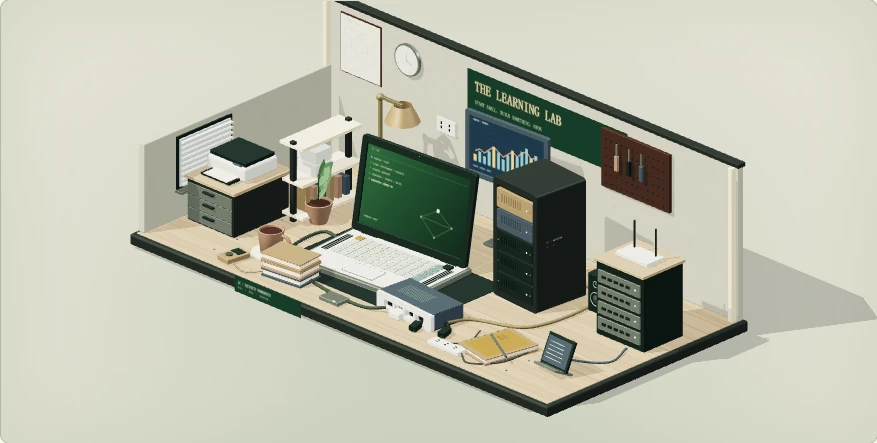
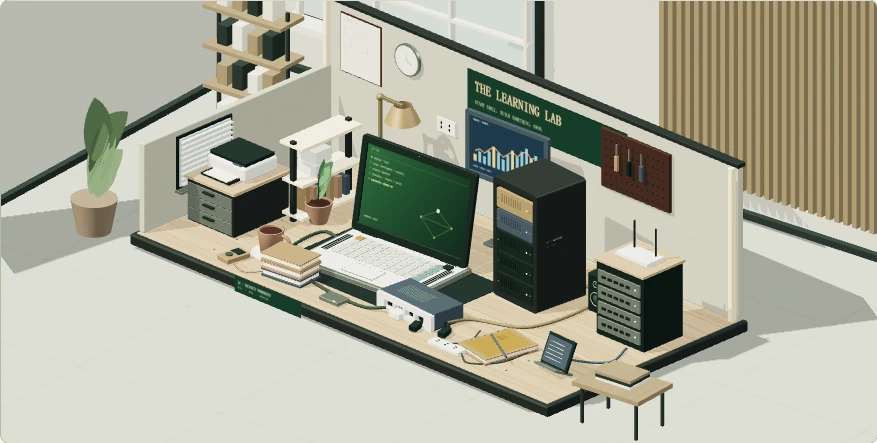
Fill the 3D background with a studio interior and replace portal art with photorealistic assets

diff --git a/index.html b/index.html
@@ -13,8 +13,8 @@
   <script src="roadmap-data.js" defer></script>
   <script src="learning-xp.js" defer></script>
   <link rel="stylesheet" href="motion.css?v=pointer2">
-  <link rel="stylesheet" href="home-3d.css?v=fullroom8">
-  <script src="home-3d.js?v=fullroom8" defer></script>
+  <link rel="stylesheet" href="home-3d.css?v=interior9">
+  <script src="home-3d.js?v=interior9" defer></script>
 </head>
 <body class="motion-site page-home">
   <a class="skip" href="#main">跳到正文</a>
@@ -31,16 +31,16 @@
         <div class="intro-colophon"><span>保持好奇 · 认真求证</span><span>CODE / SECURITY / AI ↗</span></div>
       </div>
       <div class="lab-exhibit" id="lab-exhibit">
-        <div class="workshop-caption" aria-hidden="true"><span>01 / 设备与代码</span><span>02 / 实验与记录</span><span>03 / 验证与积累</span></div><div class="exhibit-top"><span>THE WORKSHOP / 学习工作室</span><span><i></i> 实验中</span></div>
+        
         <div class="lab-viewport" id="lab-viewport" tabindex="0" role="img" aria-label="可旋转的三维安全实验台，包含双屏电脑、服务器、网络设备、台灯和桌面物件。用鼠标拖动或方向键旋转，按 R 复位。下方有等效栏目链接。">
-          <img class="lab-poster" src="assets/lab-poster.webp?v=fullroom8" width="1000" height="820" alt="包含双屏电脑、服务器、网络设备、台灯、绿植、笔记本和咖啡杯的彩色安全实验台">
+          <img class="lab-poster" src="assets/lab-poster.webp?v=interior9" width="1000" height="820" alt="包含双屏电脑、服务器、网络设备、台灯、绿植、笔记本和咖啡杯的彩色安全实验台">
           <canvas id="lab-canvas" aria-hidden="true"></canvas>
           <span id="lab-tooltip" class="lab-tooltip" hidden></span>
         </div>
-        <div class="exhibit-bottom"><span id="lab-scene-status" role="status">正在布置实验台…</span><button type="button" id="lab-reset" aria-label="复位三维视角" hidden><svg viewBox="0 0 20 20" fill="none" stroke="currentColor" stroke-width="1.4" aria-hidden="true"><path d="M4 7a6 6 0 1 1 0 6M4 3v4h4"/></svg>复位视角</button></div>
+        <div class="exhibit-bottom"><span id="lab-scene-status" role="status">正在布置实验台…</span><button type="button" id="lab-reset" aria-label="复位三维视角" hidden><svg viewBox="0 0 20 20" fill="none" stroke="currentColor" stroke-width="1.4" aria-hidden="true"><path d="M4 7a6 6 0 1 1 0 6M4 3v4h4"/></svg></button></div>
       </div>
     </section>
-    <nav class="explore-grid chapter-grid" aria-label="成长入口"><a class="explore-card card-skills chapter-card" href="skills.html"><span class="chapter-kicker">CHAPTER 01 / 收集你的学习装备</span><span class="card-copy"><strong>技能地图</strong><span class="card-tagline">从第一个概念，到独立搭建。</span><span class="card-detail">17 项技能 / 开发 · 安全 · AI</span></span><img class="chapter-photo" src="assets/entry-circuit.svg" width="420" height="460" alt="" loading="eager"><span class="chapter-action">打开装备库 <b>↗</b></span></a><a class="explore-card card-route chapter-card" href="roadmap.html"><span class="chapter-kicker">CHAPTER 02 / 把每一步变成经验</span><span class="card-copy"><strong>学习路线</strong><span class="card-tagline">点亮任务，解锁下一段成长。</span><span class="card-detail">38 个站点 / 一点点升级</span></span><img class="chapter-photo" src="assets/entry-route.svg" width="420" height="460" alt="" loading="eager"><span class="xp-meter xp-compact card-xp" data-learning-xp data-xp-autoload><span class="xp-top"><strong data-xp-level>Lv. 1 安全小白</strong><span data-xp-value>0 / 20 XP</span></span><progress data-xp-bar value="0" max="20" aria-label="当前等级经验"></progress></span></a><a class="explore-card card-questions chapter-card" href="questions.html"><span class="chapter-kicker">CHAPTER 03 / 去练习，去验证自己</span><span class="card-copy"><strong>题库挑战</strong><span class="card-tagline">从第一道题，走向独立解题。</span><span class="card-detail">68 道练习 / 入门 → 挑战</span></span><img class="chapter-photo" src="assets/entry-terminal.svg" width="420" height="460" alt="" loading="eager"><span class="chapter-action">开始一次挑战 <b>↗</b></span></a></nav>
+    <nav class="explore-grid chapter-grid" aria-label="成长入口"><a class="explore-card card-skills chapter-card" href="skills.html"><span class="chapter-kicker">CHAPTER 01 / 收集你的学习装备</span><span class="card-copy"><strong>技能地图</strong><span class="card-tagline">从第一个概念，到独立搭建。</span><span class="card-detail">17 项技能 / 开发 · 安全 · AI</span></span><img class="chapter-photo" src="assets/portal-photo-chip.webp" width="420" height="460" alt="" loading="eager"><span class="chapter-action">打开装备库 <b>↗</b></span></a><a class="explore-card card-route chapter-card" href="roadmap.html"><span class="chapter-kicker">CHAPTER 02 / 把每一步变成经验</span><span class="card-copy"><strong>学习路线</strong><span class="card-tagline">点亮任务，解锁下一段成长。</span><span class="card-detail">38 个站点 / 一点点升级</span></span><img class="chapter-photo" src="assets/portal-photo-notebook.webp" width="420" height="460" alt="" loading="eager"><span class="xp-meter xp-compact card-xp" data-learning-xp data-xp-autoload><span class="xp-top"><strong data-xp-level>Lv. 1 安全小白</strong><span data-xp-value>0 / 20 XP</span></span><progress data-xp-bar value="0" max="20" aria-label="当前等级经验"></progress></span></a><a class="explore-card card-questions chapter-card" href="questions.html"><span class="chapter-kicker">CHAPTER 03 / 去练习，去验证自己</span><span class="card-copy"><strong>题库挑战</strong><span class="card-tagline">从第一道题，走向独立解题。</span><span class="card-detail">68 道练习 / 入门 → 挑战</span></span><img class="chapter-photo" src="assets/portal-photo-terminal.webp" width="420" height="460" alt="" loading="eager"><span class="chapter-action">开始一次挑战 <b>↗</b></span></a></nav>
   </main>
   <footer class="footer wrap"><span>© 2026 辣白菜</span><span>保持好奇，慢慢升级。</span></footer>
 </body>

diff --git a/lab-model.js b/lab-model.js
@@ -358,3 +358,45 @@ export function buildLab() {
  return {root,targets,materials};
 }
 
+
+// Full-viewport architectural environment; separate from the rotating workbench.
+export function buildWorkshopBackdrop(){
+ const room=new T.Group();room.name='Surrounding studio interior';
+ function tex(size,paint){const c=document.createElement('canvas');c.width=c.height=size;paint(c.getContext('2d'),size);const t=new T.CanvasTexture(c);t.colorSpace=T.SRGBColorSpace;return t}
+ let seed=871;const rnd=()=>{seed=(seed*1664525+1013904223)>>>0;return seed/4294967296};
+ const plaster=tex(256,(c,n)=>{c.fillStyle='#c5c5b4';c.fillRect(0,0,n,n);for(let i=0;i<15000;i++){const v=130+Math.floor(rnd()*100);c.fillStyle=`rgba(${v},${v},${v},.13)`;c.fillRect(rnd()*n,rnd()*n,1,1)}});plaster.wrapS=plaster.wrapT=T.RepeatWrapping;plaster.repeat.set(5,2);
+ const tile=tex(512,(c,n)=>{c.fillStyle='#a9ae9c';c.fillRect(0,0,n,n);for(let i=0;i<22000;i++){const v=100+Math.floor(rnd()*110);c.fillStyle=`rgba(${v},${v},${v},.10)`;c.fillRect(rnd()*n,rnd()*n,1+rnd()*2,1+rnd()*2)}c.strokeStyle='#787f6e';c.lineWidth=2;c.strokeRect(1,1,n-2,n-2);c.strokeStyle='#d7d7c0';c.lineWidth=1;c.strokeRect(4,4,n-8,n-8)});tile.wrapS=tile.wrapT=T.RepeatWrapping;tile.repeat.set(12,12);
+ const wood=tex(256,(c,n)=>{c.fillStyle='#796a4e';c.fillRect(0,0,n,n);for(let i=0;i<400;i++){c.strokeStyle=`rgba(210,192,147,${rnd()*.16})`;const x=rnd()*n;c.beginPath();c.moveTo(x,0);c.lineTo(x+rnd()*6,n);c.stroke()}});
+ const wall=new T.MeshStandardMaterial({map:plaster,roughness:.92,bumpMap:plaster,bumpScale:.015});
+ const floor=new T.MeshStandardMaterial({map:tile,roughness:.81,bumpMap:tile,bumpScale:.008});
+ const timber=new T.MeshStandardMaterial({map:wood,roughness:.75});
+ const steel=new T.MeshStandardMaterial({color:0x3b4942,roughness:.5,metalness:.6});
+ const paper=new T.MeshStandardMaterial({color:0xd9d6c1,roughness:.9});
+ function box(w,h,d,m,x,y,z){const o=new T.Mesh(new T.BoxGeometry(w,h,d),m);o.position.set(x,y,z);o.castShadow=true;o.receiveShadow=true;room.add(o);return o}
+ const ground=new T.Mesh(new T.PlaneGeometry(36,36),floor);ground.rotation.x=-Math.PI/2;ground.position.y=-.105;ground.receiveShadow=true;room.add(ground);
+ box(28,9,.16,wall,0,4.3,-5.5);box(.16,9,25,wall,-8,4.3,3.5);
+ box(28,.12,.12,steel,0,.03,-5.35);box(.12,.12,25,steel,-7.85,.03,3.5);
+ // Tall windows, reveals and reflected daylight, left of the bench.
+ const glass=new T.MeshStandardMaterial({color:0xbdcfc8,roughness:.28,metalness:.24,emissive:0x91b4a9,emissiveIntensity:.32});
+ box(5.1,4.9,.14,steel,-4.45,3.55,-5.29);box(4.9,4.7,.08,glass,-4.45,3.55,-5.19);
+ for(let i=0;i<4;i++)box(.065,4.72,.16,paper,-6.85+i*1.6,3.55,-5.10);
+ for(const y of [2.02,3.56,5.10])box(4.92,.055,.16,paper,-4.45,y,-5.10);
+ box(5.3,.13,.48,paper,-4.45,1.08,-5.05);
+ // Acoustic timber wall, brass wall labels and a continuous warm light.
+ box(6.9,5.4,.14,steel,4.15,3.28,-5.27);
+ const slats=new T.InstancedMesh(new T.BoxGeometry(.10,5.36,.12),timber,37);slats.name='Acoustic timber slats';const pose=new T.Object3D();
+ for(let i=0;i<37;i++){pose.position.set(.80+i*.185,3.28,-5.12);pose.updateMatrix();slats.setMatrixAt(i,pose.matrix)}slats.castShadow=true;slats.receiveShadow=true;room.add(slats);
+ const light=new T.MeshStandardMaterial({color:0xf0d5a0,emissive:0xffd396,emissiveIntensity:1.2,roughness:.5});box(15,.045,.08,light,0,6.10,-5.07);
+ // A real shelving unit along the left edge of the visible room.
+ for(const x of [-6.8,-5.35])box(.055,2.6,.055,steel,x,1.2,-2.8);
+ for(let i=0;i<4;i++){box(1.65,.07,.65,timber,-6.075,.12+i*.73,-2.8);for(let j=0;j<4;j++){const mat=[paper,timber,steel][(i+j)%3];box(.21,.36+(j%2)*.09,.35,mat,-6.60+j*.32,.335+i*.73+(j%2)*.045,-2.8)}}
+ // Tall plant and low reading table populate the foreground corners.
+ const pot=new T.Mesh(new T.CylinderGeometry(.40,.29,.60,32),new T.MeshStandardMaterial({color:0x847562,roughness:.9}));pot.position.set(-6.05,.21,1.6);pot.castShadow=true;room.add(pot);
+ const stemMat=new T.MeshStandardMaterial({color:0x40583c,roughness:.8});
+ const leafShape=new T.Shape();leafShape.moveTo(0,0);leafShape.bezierCurveTo(.45,.22,.42,.78,0,1.0);leafShape.bezierCurveTo(-.28,.62,-.18,.16,0,0);
+ const leafGeo=new T.ShapeGeometry(leafShape,14),leafMat=new T.MeshStandardMaterial({color:0x566d4d,side:T.DoubleSide,roughness:.82});
+ for(let i=0;i<12;i++){const angle=i*2.39,base=.55+(i%4)*.23;const leaf=new T.Mesh(leafGeo,leafMat);leaf.position.set(-6.05+Math.cos(angle)*.10,base,1.6+Math.sin(angle)*.10);leaf.rotation.set(-.55,angle,.35);leaf.scale.setScalar(.8+(i%3)*.14);leaf.castShadow=true;room.add(leaf)}
+ box(1.4,.08,.95,timber,5.60,.63,2.25);for(const x of [5.03,6.17])for(const z of [1.89,2.61])box(.045,.72,.045,steel,x,.23,z);
+ for(let i=0;i<3;i++)box(.74,.05,.54,[paper,steel,timber][i],5.57,.72+i*.055,2.20);
+ room.userData.staticBackdrop=true;return room;
+}

diff --git a/home-3d.css b/home-3d.css
@@ -217,3 +217,9 @@ body.page-home{
 
 .chapter-photo{width:43%;height:100%;object-fit:contain;opacity:1;mask-image:none;filter:none;right:-2px;padding:2px}.chapter-card:hover .chapter-photo{filter:none;transform:translateY(-4px) rotate(-2deg)}
 @media(max-width:640px){.chapter-photo{width:100%;height:79%;top:10px;right:-3px;object-fit:contain;mask-image:none;opacity:1}.chapter-kicker{font-size:6px;background:none;padding:0;color:inherit;opacity:.8}.chapter-card .card-copy{background:none}.chapter-card.card-route{padding-bottom:29px}}
+
+/* Uninterrupted room background, with only an accessible reset icon. */
+.page-home .exhibit-bottom{inset:auto 10px 10px auto;padding:0;border:0;background:none;min-height:0}.page-home #lab-scene-status{position:absolute;width:1px;height:1px;padding:0;overflow:hidden;clip-path:inset(50%);white-space:nowrap}.page-home #lab-reset{width:34px;height:34px;min-height:34px;padding:8px;border-radius:50%;background:#e9ebdfda;box-shadow:0 2px 8px #203b2820}.page-home #lab-reset:hover{background:#fffef0}.page-home #lab-reset svg{width:16px;height:16px}
+
+.chapter-photo{width:42%;height:100%;object-fit:cover;padding:0;right:0;border-radius:0 8px 8px 0;mask-image:linear-gradient(to right,transparent,#000 18%);filter:saturate(.78)}.chapter-card:hover .chapter-photo{transform:scale(1.045);filter:saturate(1)}
+@media(max-width:640px){.chapter-photo{top:20px;right:7px;width:calc(100% - 14px);height:68%;border:1px solid #788d6c80;border-radius:6px;mask-image:linear-gradient(to bottom,#000 75%,transparent);object-fit:cover}.chapter-kicker{z-index:3}.chapter-card:hover .chapter-photo{transform:none}}

diff --git a/home-3d.js b/home-3d.js
@@ -30,9 +30,9 @@
    status.textContent="正在布置实验台…";
    let renderer;
    try{
-    const [T,{buildLab},{RoomEnvironment}]=await Promise.all([
+    const [T,{buildLab,buildWorkshopBackdrop},{RoomEnvironment}]=await Promise.all([
      import("./vendor/three/three.module.min.js"),
-     import("./lab-model.js?v=fullroom8"),
+     import("./lab-model.js?v=interior9"),
      import("./vendor/three/RoomEnvironment.js")
     ]);
     if(!alive || reduced.matches)return;
@@ -57,6 +57,7 @@
     key.shadow.bias=-.0003;key.shadow.normalBias=.015;key.shadow.radius=4;scene.add(key);
     const fill=new T.DirectionalLight(0xbecbd8,1.0);fill.position.set(4,3,-3);scene.add(fill);
     const {root,targets,materials}=buildLab();scene.add(root);
+    const surroundingRoom=buildWorkshopBackdrop();scene.add(surroundingRoom);
     const shadow=new T.Mesh(new T.PlaneGeometry(25,25),new T.ShadowMaterial({opacity:.17}));
     shadow.name="Ground contact shadow";shadow.rotation.x=-Math.PI/2;shadow.position.y=-.087;shadow.receiveShadow=true;scene.add(shadow);
 
